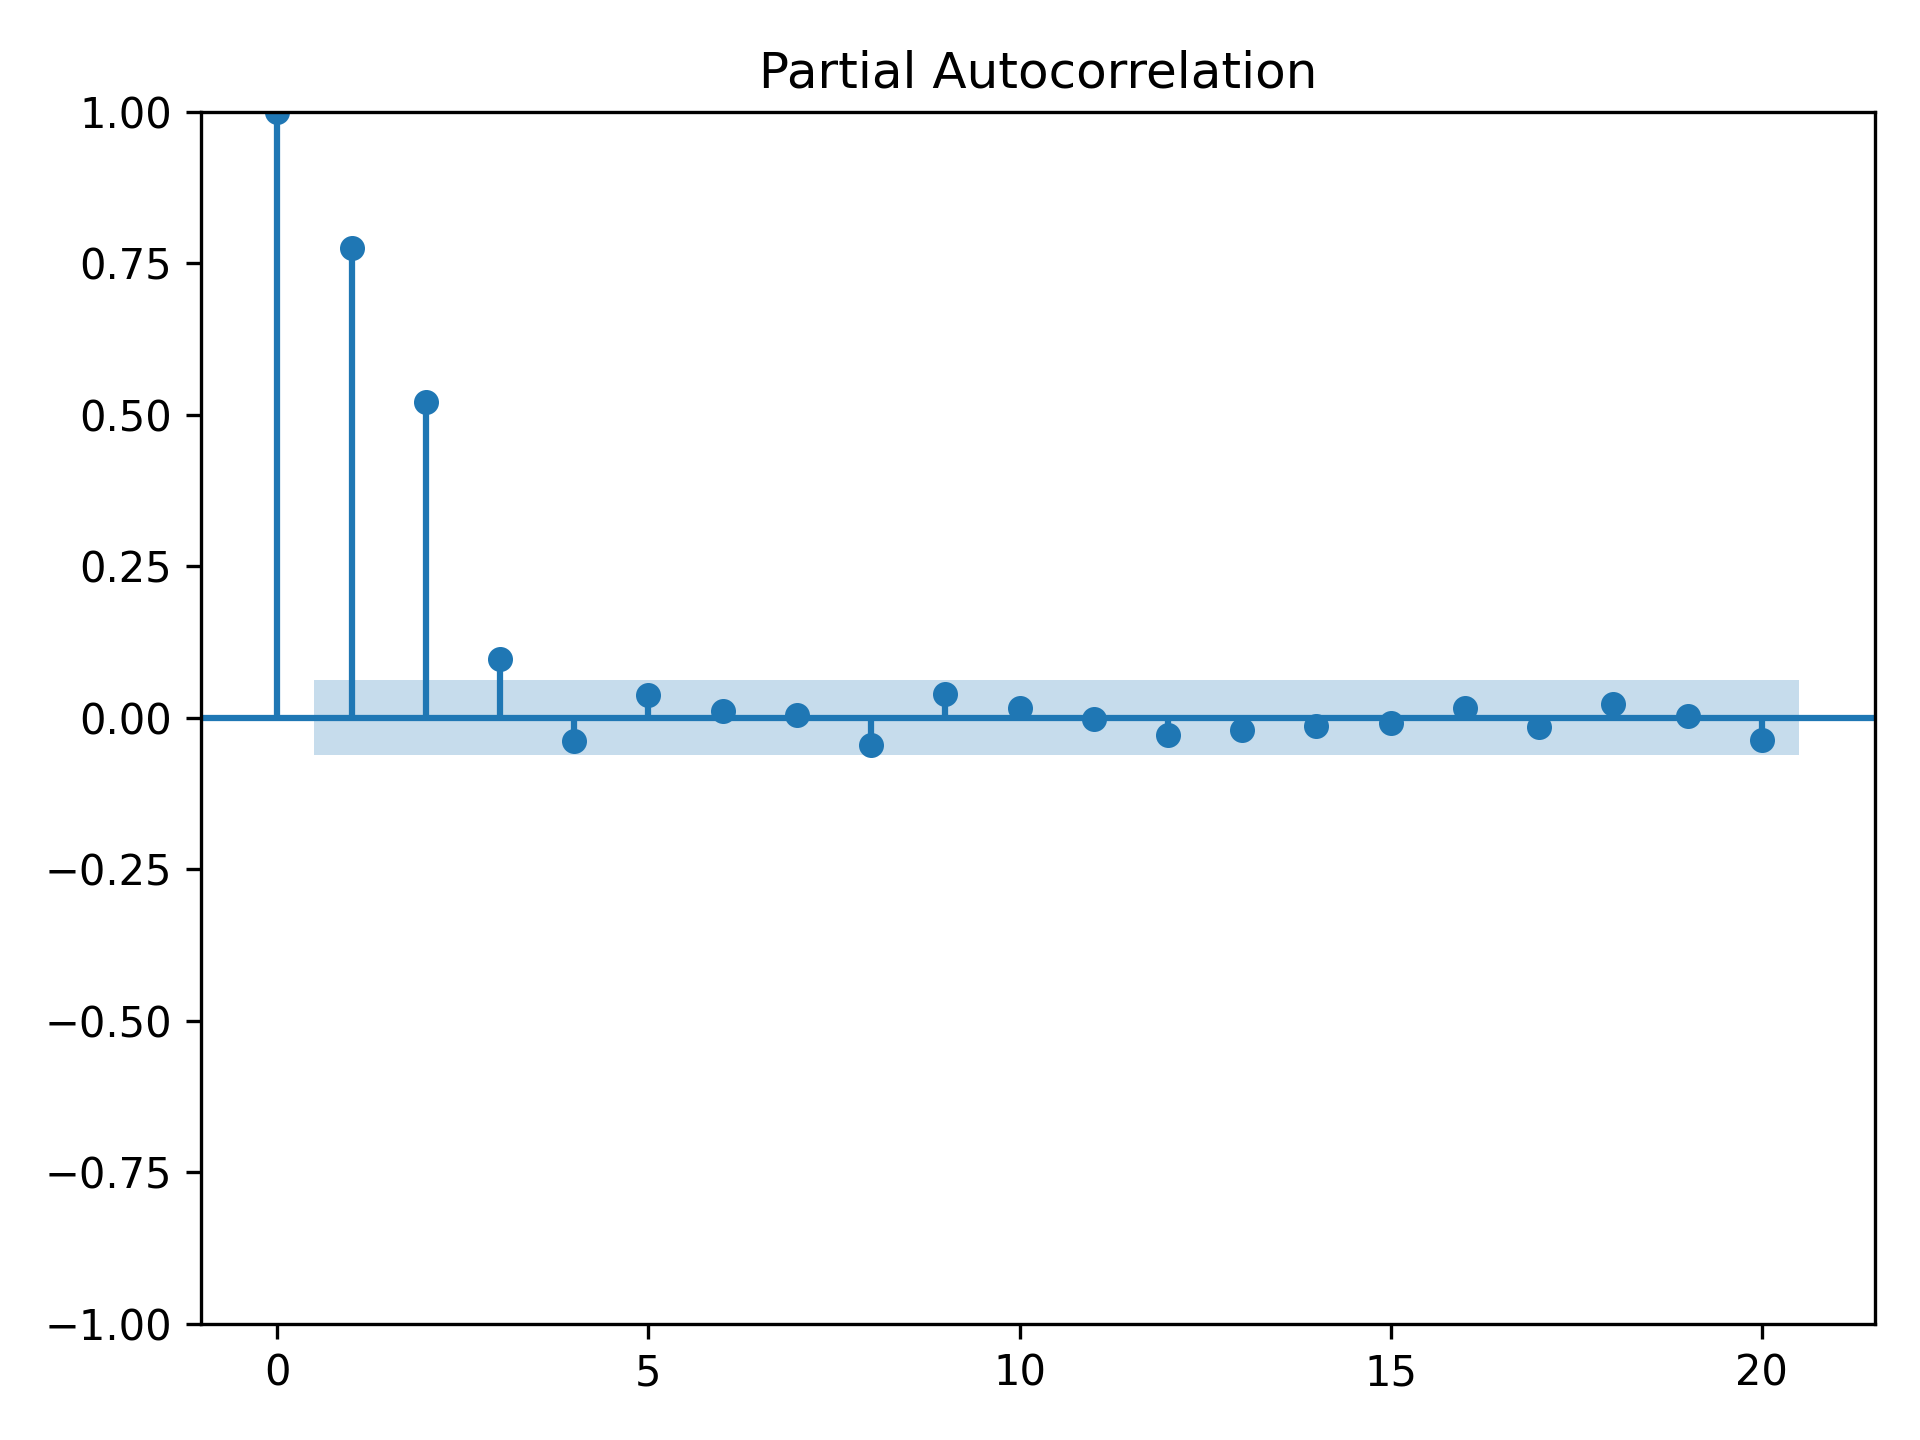
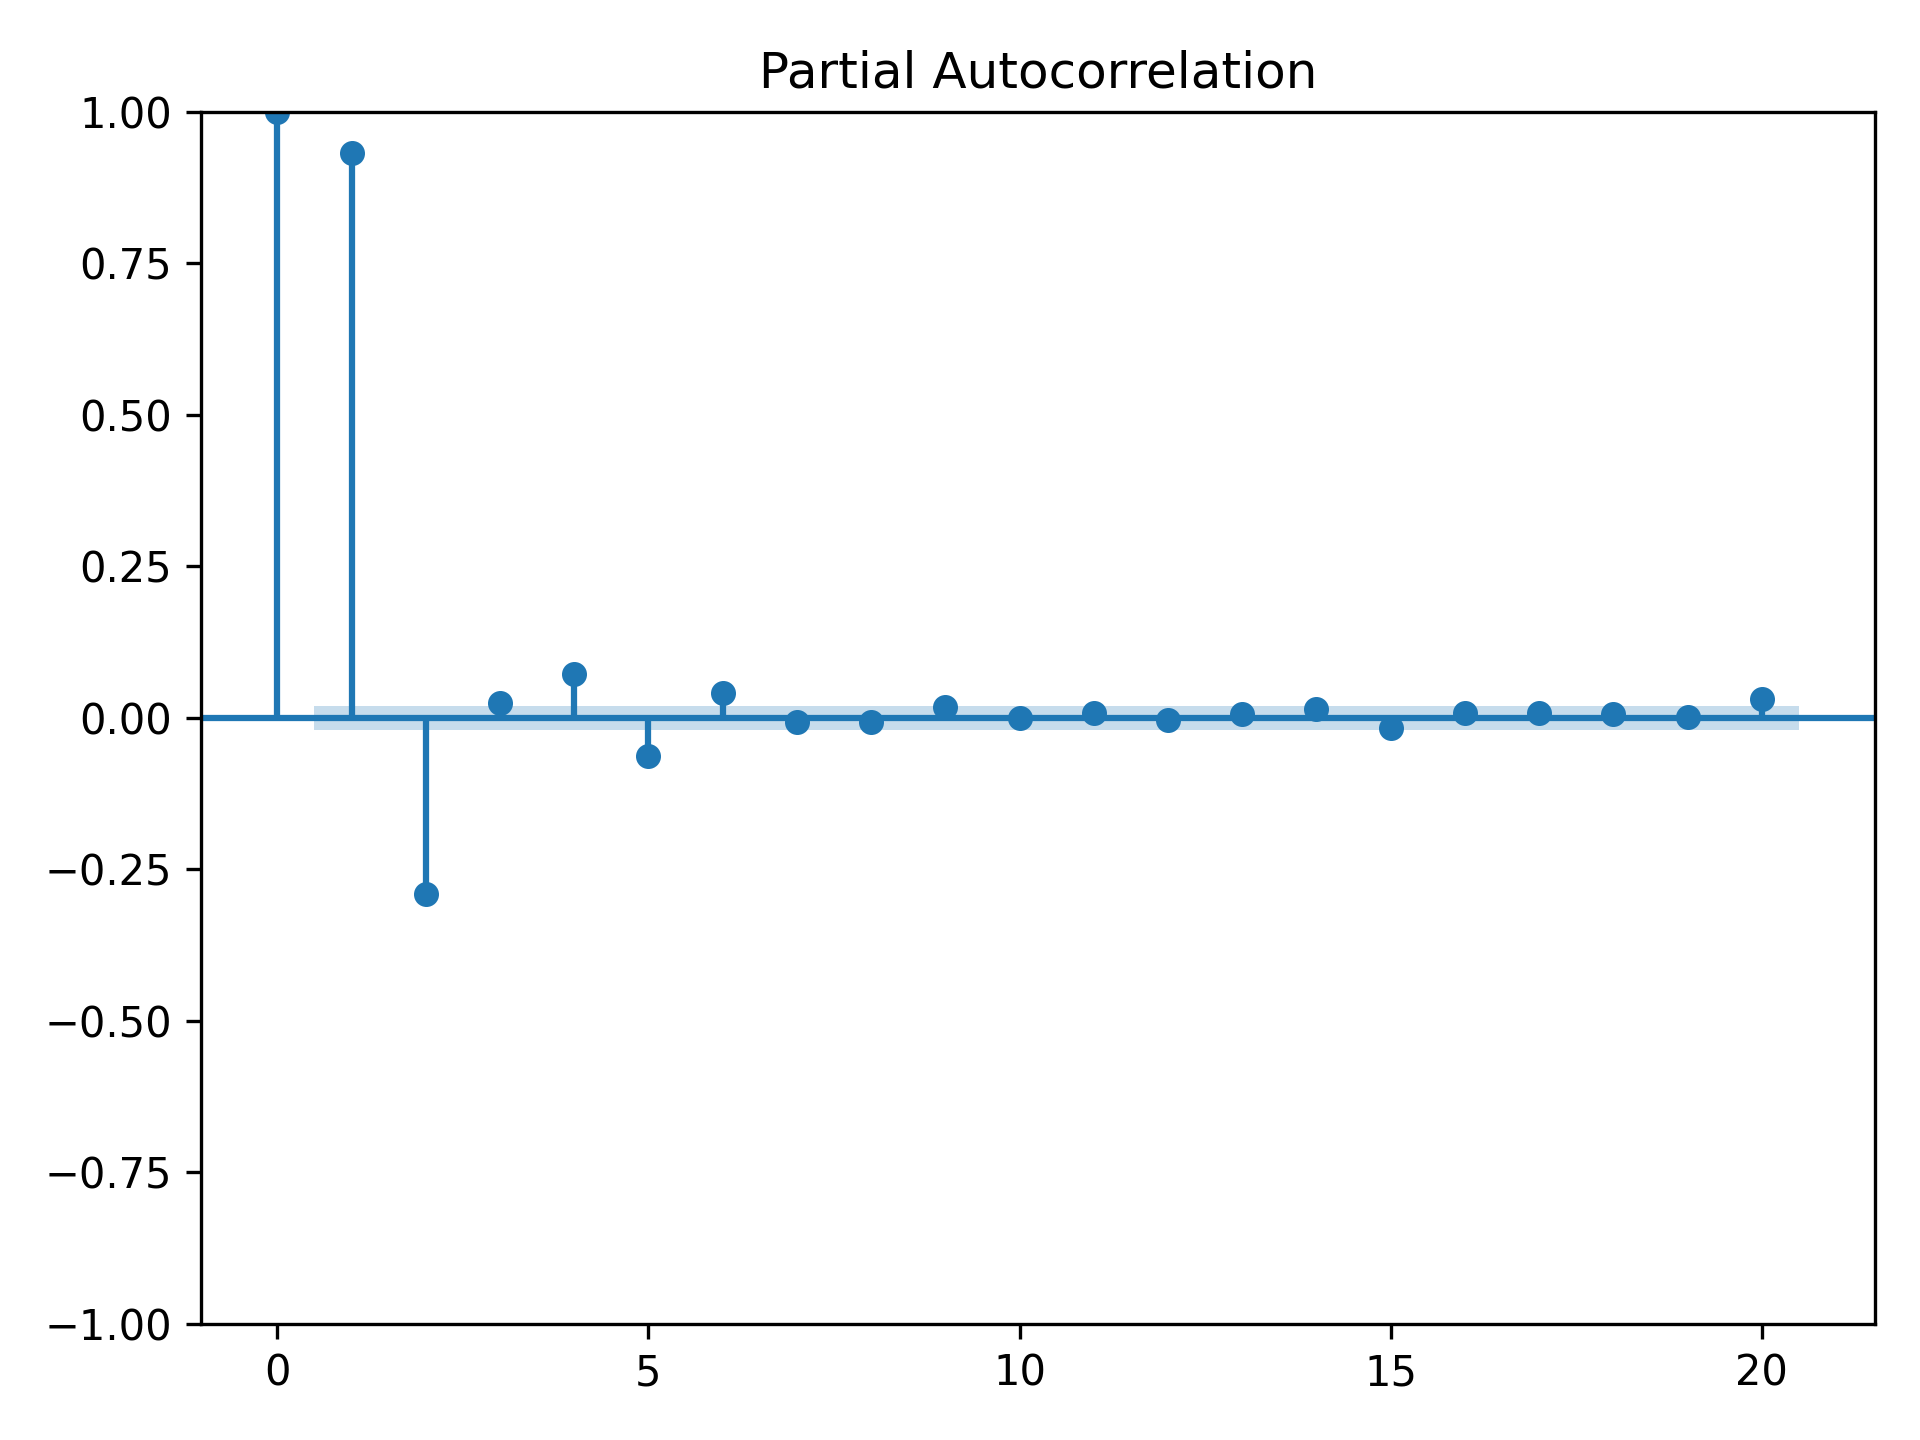
arma pq

Changed region(s): [[0.1562, 0.2812, 0.9375, 0.625], [0.1562, 0.0938, 0.1875, 0.1875]]

diff --git a/BandwidthPrediction.py b/BandwidthPrediction.py
@@ -1,0 +1,65 @@
+#akaike information criterion (AIC)
+
+import pandas as pd
+import matplotlib.pyplot as plt
+import numpy as np
+
+from statsmodels.tsa.stattools import adfuller
+from statsmodels.graphics.tsaplots import plot_acf, plot_pacf
+from statsmodels.tsa.statespace.sarimax import SARIMAX
+
+from sklearn.metrics import mean_squared_error, mean_absolute_error
+
+
+df = pd.read_csv('data/bandwidth.csv')
+
+print(df)
+
+#total de megabits por segundo en una hora!
+
+fig,ax = plt.subplots()
+
+ax.plot(df.hourly_bandwidth)
+
+ax.set_xlabel('Time')
+ax.set_ylabel('Hourly bandwidth usage (MBps)')
+
+plt.xticks(    
+    np.arange(0, 10000, 730),     
+    ['Jan', 'Feb', 'Mar', 'Apr', 'May', 'Jun', 'Jul', 'Aug', 'Sep', 'Oct', 'Nov', 'Dec', '2020', 'Feb']
+    )
+
+fig.autofmt_xdate()
+plt.tight_layout()
+
+
+plt.savefig('bandwidth.png', dpi=300)
+
+print(adfuller(df.hourly_bandwidth))
+#no es stacionaria
+
+bandwidth_diff = np.diff(df.hourly_bandwidth)
+
+print(adfuller(bandwidth_diff))
+#es estacionaria
+
+plot_acf(bandwidth_diff, lags=20)
+plt.tight_layout()
+plt.savefig('acf_diff_1.png', dpi=300)
+
+plot_pacf(bandwidth_diff, lags=20)
+plt.tight_layout()
+plt.savefig('pacf_diff_1.png', dpi=300)
+
+#not ar ma
+#stationary arma(p,q) process
+
+
+
+
+
+
+
+
+
+
